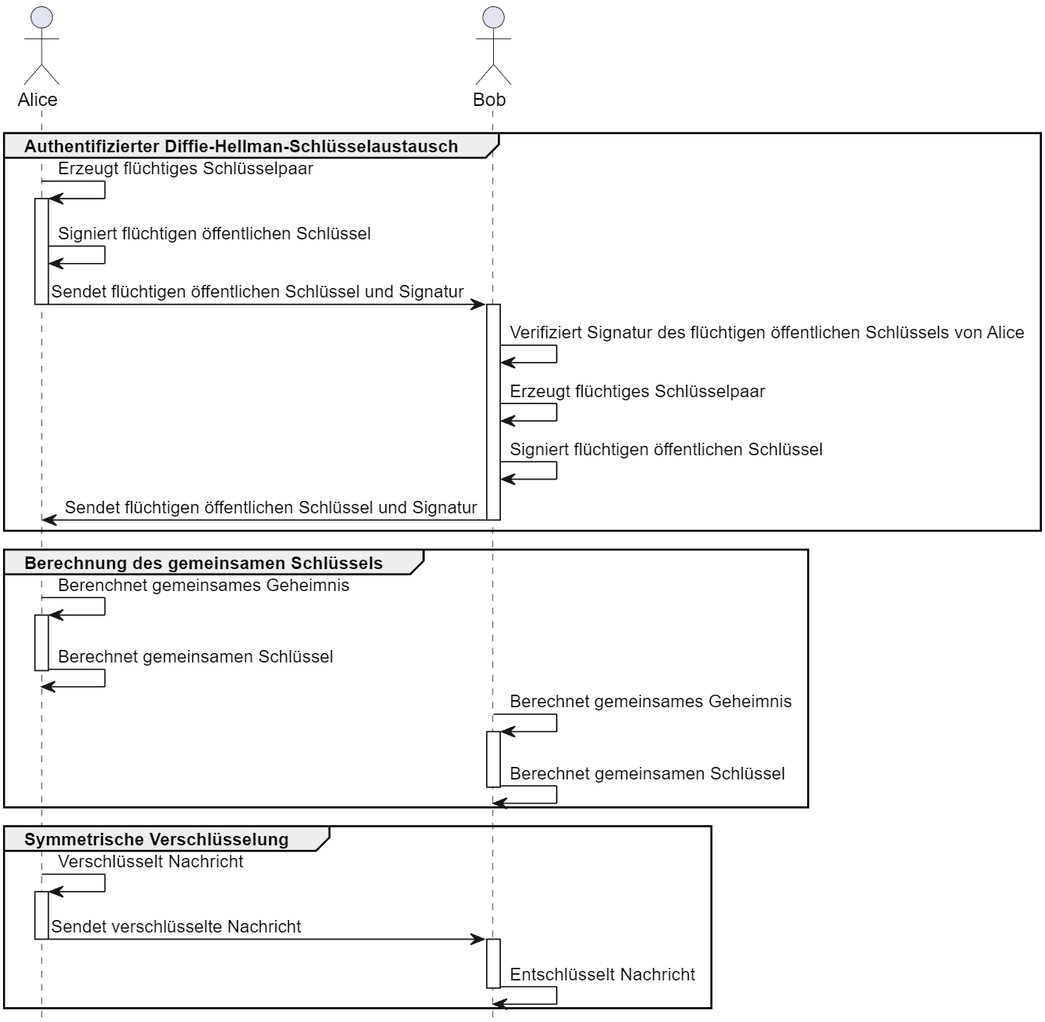
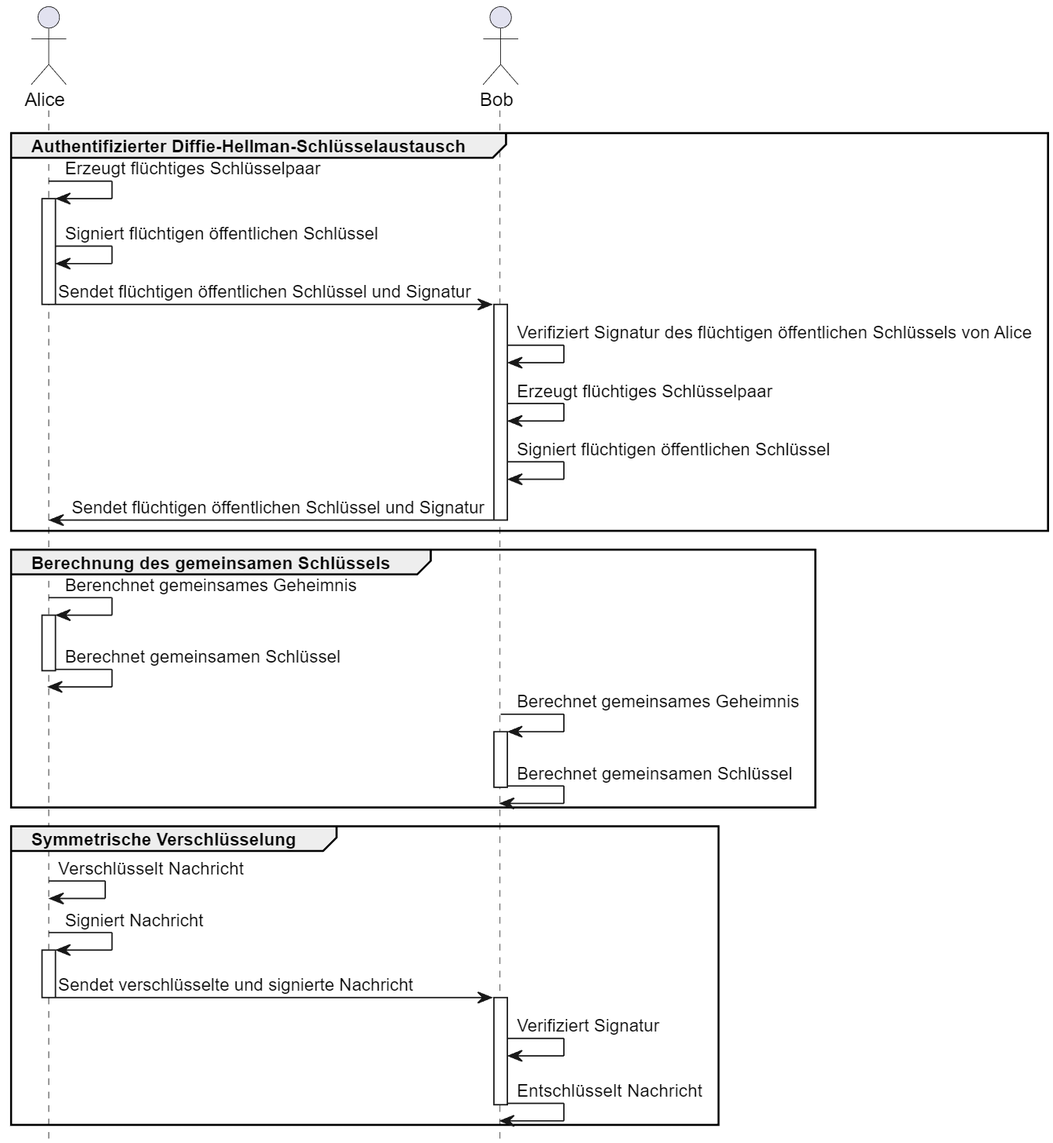
resolving all TODOs

Changed region(s): [[0.0, 0.0, 1.0, 1.0], [0.2464, 0.6144, 0.308, 0.6452], [0.308, 0.7988, 0.3388, 0.8295]]

diff --git a/chapter_4/sections/sicherheit.tex b/chapter_4/sections/sicherheit.tex
@@ -1,7 +1,6 @@
 \section{Sicherheit}
 \label{subsec:sicherheit}
 
-% #TODO: Checken, ob das nach der Umstrukturierung noch so passt
 Um die Kommunikation zwischen den Teilnehmern zu schützen, finden sowohl asymmetrische als auch symmetrische Verschlüsselung Anwendung. Die asymmetrische Verschlüsselung wird für die Authentifizierung und die symmetrische Verschlüsselung für die Ende-zu-Ende-Verschlüsselung der Nachrichten verwendet. 
 
 \subsection{Vertrauliche Kommunikation}
@@ -9,11 +8,6 @@ Um die Kommunikation zwischen den Teilnehmern zu schützen, finden sowohl asymme
 
 Die Kommunikation zwischen den Teilnehmern soll vertraulich sein. Das bedeutet, dass die Nachrichten nur von den Teilnehmern gelesen werden können, die an der Kommunikation beteiligt sind. Um dies gewährleisten zu können, wird eine Ende-zu-Ende-Verschlüsselung verwendet. Ende-zu-Ende-Verschlüsselung ist ein Konzept, das besagt, dass die Nachrichten vom Sender verschlüsselt und erst beim Empfänger wieder entschlüsselt werden \parencite[S. 233-260]{Wong_KryptoPraxis}. Die folgende Abbildung \ref{fig:ende_zu_ende} zeigt den Ablauf einer Ende-zu-Ende-Verschlüsselung.
 
-% Signatur mit EdDSA -> warum habe ich mich dafür entschieden?
-% Key Derivation Function
-% symmetrische Verschlüsselung mit AES (state of the art <- Quelle)
-% Perfect Forward Secrecy erwähnen
-% Ed25519 (EdDSA) -> warum habe ich mich dafür entschieden? Signatur
 
 \begin{figure}[H]
     \centering
@@ -35,18 +29,26 @@ Solch ein Schlüsselaustauschverfahren für sich genommen, hat den Nachteil, das
 
 Im Block \textit{Authentifizierter Diffie-Hellman Schlüsselaustausch} aus Abbildung \ref{fig:ende_zu_ende} erzeugt Alice ein neues X25519-Schlüsselpaar und signiert ihren öffentlichen Schlüssel unter Verwendung des privaten statischen Ed25519-Schlüssels. Dieser signierte öffentliche Schlüssel wird an Bob gesendet. Bob erzeugt ebenfalls ein X25519-Schlüsselpaar und signiert seinen öffentlichen Schlüssel mit seinem privaten statischen Ed25519-Schlüssel. Dieser signierte öffentliche Schlüssel wird an Alice gesendet. Alice und Bob können nun das gemeinsame Geheimnis berechnen (siehe \ref{fig:schluesselvereinbarung} \textit{\nameref{fig:schluesselvereinbarung}}).
 
+
 \subsubsection{Berechnung des gemeinsamen Schlüssels}
 
 Um aus diesem Geheimnis ein möglichst gleichverteiltes Geheimnis zu erzeugen, wird eine \textit{Schlüsselableitungsfunktion} (englisch: \textit{Key Derivation Function}) verwendet. Eine Schlüsselableitungsfunktion ist eine Funktion, die aus einem Eingabeschlüssel (hier das Geheimnis) einen Ausgabeschlüssel erzeugt. Dieser wird dann für die eigentliche Verschlüsselung der Nachricht verwendet. Laut Wong kann dafür eine einfache Hashfunktion (siehe \ref{subsec:vertraulichkeit_basics} \textit{\nameref{subsec:vertraulichkeit_basics}}) verwendet werden, wenn die Ausgabelänge für den Ausgabeschlüssel passend ist \Parencite[S. 194]{Wong_KryptoPraxis}. In diesem Fall wird die \textit{SHA-256} Hashfunktion verwendet, da diese eine Ausgabelänge von $256$ Bit hat \Parencite{rfc6234_SHA2}.
 
+Im Block \textit{Berechnung des gemeinsamen Schlüssels} aus Abbildung \ref{fig:ende_zu_ende} wird das Geheimnis mit der SHA-256 Hashfunktion gehasht und das Ergebnis als symmetrischer Schlüssel verwendet.
+
 
 \subsubsection{Symmetrische Verschlüsselung}
 
+Der am häufigsten verwendete Verschlüsselungsalgorithmus ist \textit{Advanced Encryption Standard (AES)}. Dieser Algorithmus ist ein symmetrischer Verschlüsselungsalgorithmus (siehe \ref{fig:symmetrische_verschluesselung} \textit{\nameref{fig:symmetrische_verschluesselung}}). Da die Länge des Schlüssels den Grad der Sicherheit bestimmt, wird die maximal mögliche Schlüssellänge von $256$ Bit verwendet \parencite[S. 76]{Wong_KryptoPraxis}. 
+Diese Schlüssellänge passt zu der Ausgabelänge der verwendeten Ableitungsfunktion SHA-256.
+
+Im Block \textit{Symmetrische Verschlüsselung} aus Abbildung \ref{fig:ende_zu_ende} wird die Nachricht von Alice mit dem symmetrischen Schlüssel verschlüsselt, signiert und an Bob gesendet. Bob kann die Nachricht mit dem symmetrischen Schlüssel entschlüsseln und die Signatur mit dem öffentlichen statischen Ed25519-Schlüssel von Alice verifizieren.
+
+Dieser Vorgang wird für jede Nachricht wiederholt. Der symmetrische Schlüssel wird für jede Nachricht neu berechnet. Dadurch wird die \textit{Perfect Forward Secrecy} (PFS) gewährleistet. Die PFS ist ein Konzept, welches besagt, dass die Kompromittierung des Schlüssels nicht die Kompromittierung der Kommunikation in der Vergangenheit ermöglichen darf \parencite[S. 921-922]{Krawczyk_PerfectForwardSecrecy}.
 
 
+\subsubsection{Statische Schlüssel}
 
+Die statischen Schlüssel werden verwendet, um die Teilnehmer zu authentifizieren (Berechnung und Verifikation der Signaturen). Diese Schlüssel werden einmalig bei der Registrierung (siehe \ref{subsec:identifikation_von_teilnehmern} \textit{\nameref{subsec:identifikation_von_teilnehmern}}) eines Teilnehmers erzeugt. Der private Schlüssel wird lokal auf dem Gerät des Teilnehmers gespeichert. Für den öffentlichen Schlüssel muss ein Weg gefunden werden, diesen allen anderen Teilnehmern öffentlich zugänglich und eindeutig zuordenbar zu machen. Hierfür wird die Blockchain verwendet. 
 
-%\noindent Beim Aufbau einer Verbindung wird ein Diffie-Hellman-Schlüsselaustausch durchgeführt. Dieser Schlüsselaustausch wird verwendet, um einen symmetrischen Schlüssel für die Ende-zu-Ende-Verschlüsselung zu erzeugen. Der Diffie-Hellman-Schlüsselaustausch wird in Abbildung \ref{fig:ende_zu_ende} dargestellt. 
-
-%Zu Beginn erzeugt Alice ein flüchtiges Schlüsselpaar. Flüchtige Schlüssel sind Schlüssel, die nur für eine Verbindung verwendet werden. Nach der Verwendung werden sie verworfen \parencite{NIST_ephemeralKey}. Diesen Schlüssel signiert sie mit ihrem privaten statischen Schlüssel und sendet ihn an Bob. Bob kann die Signatur mit dem öffentlichen statischen Schlüssel von Alice verifizieren, da dieser bei Alice´ Registrierung in die Blockchain geschrieben wurde und mit Hilfe einer Funktion aus der Blockchain gelesen werden kann. Bob erzeugt nun ebenfalls ein flüchtiges Schlüsselpaar und signiert den flüchtigen öffentlichen Schlüssel mit seinem privaten statischen Schlüssel. Diesen signierten Schlüssel sendet er an Alice. Auch Alice kann nun die Signatur durch das Hinterlegen des öffentlichen statischen Schlüssels von Bob in der Blockchain prüfen. Der nächste Schritt ist die Berechnung des gemeinsamen Geheimnis. Dazu wird der flüchtige öffentliche Schlüssel des anderen Teilnehmers mit dem eigenen privaten flüchtigen Schlüssel multipliziert (?). Das Ergebnis ist das gemeinsame Geheimnis. Dieses wird nun mit einer \textit{Schlüsselableitungsfunktion} (englisch: \textit{Key Derivation Function}) in einen symmetrischen Schlüssel umgewandelt, mit dem die Nachrichten verschlüsselt werden. Alice kann nun eine, mit dem symmetrischen Schlüssel verschlüsselte, Nachricht an Bob senden und Bob ist in der Lage diese Nachricht mit dem symmetrischen Schlüssel zu entschlüsseln. 
 

diff --git a/chapter_4/sections/identifikation.tex b/chapter_4/sections/identifikation.tex
@@ -4,21 +4,19 @@
 Da es in Peer-to-Peer-Netzwerken keinen zentralen Server gibt, der unter anderem zur Auffindung und Identifikation anderer Teilnehmer verwendet werden kann, müssen die Teilnehmer auf andere Weise identifiziert werden. Durch die Entscheidung, das Kademlia Protokoll zu implementieren, wird die ID des Teilnehmers als Schlüssel für die Speicherung der Teilnehmerinformationen, wie IP-Adresse und Port, verwendet.
 
 Aus der Spezifikation von Kademlia geht hervor, dass die ID einer Node, welche auch als \textit{Kademlia-ID} bezeichnet wird, 160 Bit lang sein muss und aus einer zufälligen Kennung bestehen soll \parencite[S. 2]{Maymounkov_Kademlia}. Für das hier entwickelte Protokoll wird der Benutzername des Teilnehmers als ID verwendet. Da Kademlia eine ID mit einer Länge von 160 Bit erwartet, muss der Benutzername auf diese Länge gebracht werden. Dafür wird eine Zeichenbegrenzung von 20 Zeichen festgelegt, was bei einer UTF-8 Codierung einer Bitlänge von 160 Bit entspricht \parencite{rfc3629_utf-8}. Falls der Benutzername kürzer als 20 Zeichen ist, wird er mit Nullen aufgefüllt.
-Der Benutzername muss, wie aus den funktionalen Anforderungen (siehe \ref{subsec:registrierung}) zu entnehmen ist, eindeutig sein und kann vom Benutzer bei der Registrierung frei gewählt werden. 
-Durch die Beschränkung der ID auf 20 Zeichen wird die Anzahl der Teilnehmer zwar begrenzt, jedoch ist die Anzahl der möglichen Teilnehmer immer noch sehr groß. Es können in der Theorie $2^{160}$ Teilnehmer am Netzwerk teilnehmen, wobei nicht jedes Zeichen in UTF-8 sinnvoll für die Verwendung in einem Benutzername ist. Somit ist die Anzahl der möglichen Teilnehmer in der Praxis geringer.
+Der Benutzername muss, wie aus den funktionalen Anforderungen (siehe \ref{subsec:registrierung}) zu entnehmen ist, eindeutig sein und kann vom Benutzer bei der Registrierung frei gewählt werden. Außerdem wird bei der Registrierung ein privater und ein öffentlicher Schlüssel erzeugt. Der öffentliche Schlüssel wird zusammen mit dem Benutzernamen in der Blockchain gespeichert. Der private Schlüssel wird lokal auf dem Gerät des Teilnehmers gespeichert. Durch die Beschränkung der ID auf 20 Zeichen wird die Anzahl der Teilnehmer zwar begrenzt, jedoch ist die Anzahl der möglichen Teilnehmer immer noch sehr groß. Es können in der Theorie $2^{160}$ Teilnehmer am Netzwerk teilnehmen, wobei nicht jedes Zeichen in UTF-8 sinnvoll für die Verwendung in einem Benutzername ist. Somit ist die Anzahl der möglichen Teilnehmer in der Praxis geringer.
 
 Diese Anzahl ist so groß, dass sie in der Praxis nicht erreicht werden sollte und somit die Beschränkung der ID keine Auswirkungen auf die Funktionalität des Protokolls haben sollte.
 In der Node werden dann Schlüssel-Wert-Paare gespeichert, wobei der Schlüssel die ID des Teilnehmers ist und der Wert die IP-Adresse und der Port. Es wird festgelegt, dass immer Port $49152$ verwendet wird, da sich dieser Port im Bereich der dynamischen Ports befindet und somit nicht für andere Anwendungen reserviert ist \parencite[S. 20]{rfc6335_IANA_Ports}. 
 
 Wenn ein Teilnehmer eine Nachricht an einen anderen Teilnehmer senden möchte, muss er dessen IP-Adresse kennen. Um an diese Information zu gelangen, muss zuerst die ID des Teilnehmers in der Blockchain gesucht werden und anschließend eine Peer-Discovery durchgeführt werden, um die IP-Adresse des Teilnehmers zu erhalten. Eine Peer-Discovery läuft wie folgt ab:
- % #TODO: KORRIGIEREN! NODE_NOT_FOUND gibt es nicht!
- % #TODO: Doch noch eine Abbildung einfügen?
+
 \begin{enumerate}
-    \item Der Teilnehmer, der die Nachricht senden möchte, sendet eine \textit{FIND\_NODE}-Nachricht an den Teilnehmer, dessen IP-Adresse er sucht. In dieser Nachricht ist die ID des Teilnehmers enthalten, dessen IP-Adresse gesucht wird.
-    \item Der Teilnehmer, der die Nachricht erhalten hat, sucht in seiner Routing-Tabelle nach dem Teilnehmer, dessen ID in der Nachricht enthalten ist. Falls der Teilnehmer gefunden wird, wird eine Nachricht an den Teilnehmer gesendet, der die \textit{FIND\_NODE}-Nachricht gesendet hat. In dieser Nachricht ist die IP-Adresse des Teilnehmers enthalten.
-    \item Falls der Teilnehmer nicht in der Routing-Tabelle gefunden wird, wird die \textit{FIND\_\\NODE}-Nachricht an den Teilnehmer weitergeleitet, der der ID des gesuchten Teilnehmers am nächsten ist. Dieser Vorgang wird solange wiederholt, bis der Teilnehmer gefunden wird.
-    \item Falls der Teilnehmer nicht gefunden wird, wird eine \textit{NODE\_NOT\_FOUND}-\\Nachricht an den Teilnehmer gesendet, der die \textit{FIND\_NODE}-Nachricht gesendet hat.
-    \item Der Teilnehmer, der die Nachricht mit der IP-Adresse seines Ziels erhalten hat, speichert diese in seiner Routing-Tabelle ab.
+    \item Alice hasht den Benutzernamen von Bob mit der SHA-1 Hashfunktion und erhält damit die Kademlia-ID von Bob.
+    \item Alice sendet eine \textit{FIND\_NODE}-Nachricht an den Knoten in ihrer Routing-Tabelle, der der Kademlia-ID von Bob am nächsten ist. 
+    \item Der Knoten sucht in seiner Routing-Tabelle nach der Kademlia-ID von Bob. Falls er den Knoten findet, antwortet er mit den gefundenen Informationen in Form eines Tripletts aus Kademlia-ID, IP-Adresse und Port. Falls der Knoten den Knoten nicht findet, antwortet er mit mehreren Triplets, die dem Knoten mit der Kademlia-ID von Bob am nächsten sind.
+    \item Alice erhält die Antwort und sucht in der Antwort nach der Kademlia-ID von Bob. Falls sie gefunden wird, speichert Alice die IP-Adresse und den Port von Bob in ihrer Routing-Tabelle ab. Falls sie nicht gefunden wird, wiederholt Alice Schritt 2 solange, bis sie keine Antworten mehr erhält, die IDs beinhalten, die der Kademlia-ID von Bob näher sind als die ID des Knotens, der die \textit{FIND\_NODE}-Nachricht erhalten hat.
 \end{enumerate}
+
 
 \noindent Um das Netzwerk immer aktuell zu halten, wird in regelmäßigen Abständen ein \textit{PING} an alle Teilnehmer gesendet, die in den Routing-Tabellen der Nodes gespeichert sind. Falls ein Teilnehmer nicht antwortet, wird er aus der Routing-Tabelle entfernt.

diff --git a/chapter_4/sections/verbindungsmanagement.tex b/chapter_4/sections/verbindungsmanagement.tex
@@ -79,8 +79,10 @@ Mit dem Abschluss der Konnektivitätsprüfungen beginnt die dritte und letzte Ph
 
 Wenn die am besten geeignete Verbindungsadresse eine lokale Adresse ist, wird eine direkte Verbindung zwischen den Geräten aufgebaut. Wenn die am besten geeignete Verbindungsadresse eine reflexive Adresse ist, wird eine direkte Verbindung zwischen den Geräten aufgebaut, indem die reflexive Adresse als Zieladresse verwendet wird. Wenn wiederum die am besten geeignete Verbindungsadresse eine Relay-Adresse ist, wird eine Verbindung über den Relay-Server aufgebaut, indem die Relay-Adresse als Zieladresse verwendet wird. Der Nachrichtenaustausch erfolgt über die ausgewählte Verbindungsadresse. Wobei hier mit \textit{Verbindung aufbauen} gemeint ist, dass die Nachrichten über die Verbindungsadresse gesendet und empfangen werden können. Aus Sicht der Transportschicht wird durch die Verwendung von UDP keine Verbindung aufgebaut, denn UDP ist ein verbindungsloses Protokoll. Das bedeutet, dass keine Verbindung aufgebaut werden muss, um die Nachrichten zu senden und zu empfangen. Die Nachrichten werden über die Verbindungsadresse gesendet und empfangen. Aus Applikationssicht wird jedoch eine Verbindung aufgebaut, da die Nachrichten zwischen den Teilnehmern ausgetauscht werden können.
 Ein Nachteil bei der Verwendung von UDP ist, dass die Nachrichten nicht zuverlässig zugestellt werden. Das bedeutet, dass Nachrichten verloren gehen können, ohne dass der Absender oder Empfänger davon erfährt. Das Transportprotokoll TCP (Transmission Control Protocol) hingegen ist zuverlässig, da es eine Verbindung aufbaut und sicherstellt, dass die Nachrichten erfolgreich zugestellt werden \parencite[S. 36]{rfc9293_TCP}. Im Falle von Paketverlusten ist auf der gleichen Seite definiert, dass TCP in der Lage ist, die verlorenen Pakete zu erkennen und erneut zu senden.
-Doch eine mögliche Verwendung von TCP hat auch Nachteile: ein Nachteil ist, dass es eine Verbindung aufbauen muss, bevor die Nachrichten gesendet werden können. Dies kann zu einer höheren Latenz führen. Ein weiterer Nachteil ist, dass die Verbindung aufrechterhalten werden muss, um die Nachrichten zu senden und zu empfangen. Dies führt zu einem höheren Ressourcenverbrauch, da die Verbindung aufrechterhalten werden muss, auch wenn keine Nachrichten gesendet werden. Auch bei NATs hat TCP Nachteile. NATs schließen die Verbindungen nach einer gewissen Zeit, wenn keine Daten übertragen werden. Dies kann dazu führen, dass die Verbindung geschlossen werden, bevor die Nachrichten gesendet werden können. Bei Instant Messaging zählt die Geschwindigkeit, mit der die Nachrichten gesendet und empfangen werden mehr, als die Zuverlässigkeit der Nachrichten.
-Daher ist es besser, die Nachrichten schnell zu senden und zu empfangen, auch wenn dies bedeutet, dass die Nachrichten eventuell nicht zuverlässig zugestellt werden. Und auch in Verbindung mit NATs stellt sich UDP als die bessere Wahl heraus. Aus diesen Gründen wurde UDP als Transportprotokoll für die Nachrichtenübertragung gewählt.
+
+Doch eine mögliche Verwendung von TCP hat auch Nachteile: ein Nachteil ist, dass es eine Verbindung aufbauen muss, bevor die Nachrichten gesendet werden können. Dies kann zu einer höheren Latenz führen. Ein weiterer Nachteil ist, dass die Verbindung aufrechterhalten werden muss, um die Nachrichten zu senden und zu empfangen. Dies führt zu einem höheren Ressourcenverbrauch, da die Verbindung aufrechterhalten werden muss, auch wenn keine Nachrichten gesendet werden. Auch bei NATs hat TCP Nachteile. NATs schließen die Verbindungen nach einer gewissen Zeit, wenn keine Daten übertragen werden. Dies kann dazu führen, dass die Verbindung geschlossen werden, bevor die Nachrichten gesendet werden können. 
+Ein überzeugendes Argument für die Verwendung von UDP liegt in seiner Effizienz durch den geringeren Overhead im Vergleich zu TCP. Dank des schlankeren Headers werden weniger Daten übertragen, was besonders in Instant Messaging-Szenarien, in denen kleine Nachrichten häufig versendet werden, zu einer effizienteren Nutzung der Netzwerkressourcen und zu schnelleren Übertragungen führt. UDP bietet zudem den Vorteil der Unabhängigkeit in Bezug auf die Reihenfolge der übermittelten Pakete. Im Gegensatz zu TCP, das die korrekte Reihenfolge sicherstellt, überlässt UDP diese Aufgabe der Anwendungsschicht. In Instant Messaging-Anwendungen, in denen die Reihenfolge der Nachrichten möglicherweise weniger kritisch ist, ermöglicht dies eine flexiblere und potenziell schnellere Übertragung von Nachrichten. Die geringere Verbindungsetablierungszeit von UDP ist ein weiterer Pluspunkt. Da UDP ein verbindungsloses Protokoll ist, entfällt der zeitliche Aufwand für das Auf- und Abbauen von Verbindungen. Dies ist besonders vorteilhaft in Umgebungen mit häufigen Verbindungswechseln, wie sie bei Instant-Messaging mittels Peer-to-Peer auftreten können. Die Minimierung der Latenzzeit trägt dazu bei, Nachrichten schneller bereitzustellen \parencites{rfc768_UDP}{rfc9293_TCP}. 
+Aus diesen Gründen wurde UDP als Transportprotokoll für die Nachrichtenübertragung gewählt.
 
 
 \subsection{Verbindungsabbau}

diff --git a/chapter_4/sections/protokollgrundlagen.tex b/chapter_4/sections/protokollgrundlagen.tex
@@ -45,25 +45,11 @@ Funktionen, wie diese Suche, werden durch die vier Nachrichten \textit{FIND\_NOD
 
 \noindent Da bei einem Instant-Messaging-Protokoll häufig Teilnehmer das Netzwerk verlassen und neue Teilnehmer dem Netzwerk beitreten, ist es wichtig, dass das Protokoll mit hoher Fluktuation umgehen kann. Diese Fluktuation von Nodes wird als Churn (engl. Abwanderung) bezeichnet. In einer Studie von Medrano-Chávez et al. \parencite{MedranoChavez_ChordKademliaHighChurnScenarios}, welche im hybriden Journal \textit{Peer-to-Peer Networking and Applications} veröffentlicht wurde, wurde die Leistung von Chord und Kademlia in Bezug auf Netzwerkfluktuation untersucht. Die Ergebnisse zeigen, dass Kademlia bei hoher Fluktuation besser abschneidet als Chord. Aus diesem Grund wird Kademlia in diesem Protokoll als Grundlage für das Auffinden von Teilnehmern und das Routing verwendet.
 
-% #TODO: Warum Kademlia und was die Sicherheitsaspekte angeht, erst in Architektur aufgreifen.
-    % Signaling Server könnte auch mit Anfragen geflutet werden -> der Sever könnte bei jedem checken, ob es sich um einen validen Teilnehmer handelt, was aber sehr aufwändig wäre
-    % wenn Kademlia mit Anfragen geflutet wird, könnte es zu einem Denial of Service kommen, da die Knoten nicht mehr erreichbar sind -> habe aber ja mit dem Signaling Server noch eine weitere Instanz, die die Anfragen entgegen nimmt und weiterleitet
 
-Durch die Entscheidung für die Implementierung von Kademlia als Grundlage für das Auffinden von Teilnehmern und das Routing, wird die Sicherheit des Protokolls beeinflusst. Da Kademlia ein dezentralisiertes Protokoll ist, ist es anfällig für den in Abschnitt \ref{subsubsec:sybil_attack} (\textit{\nameref{subsubsec:sybil_attack}}) beschriebenen Sybil-Angriff. Um diesen Angriff zu verhindern bzw. zu erschweren, wird in dieser Arbeit die Teilnahme am Netzwerk erst durch eine vorherige Registrierung ermöglicht. Die Registrierung wird durch die Blockchain-Technologie realisiert und ist mit Kosten verbunden, die ein Angreifer aufbringen muss, um am Netzwerk teilzunehmen. Da bei einem Sybil-Angriff der Angreifer mehrere Identitäten verwendet, um das Netzwerk zu übernehmen, muss er für jede Identität die Kosten aufbringen. Dadurch wird der Angriff erschwert, da der Angreifer mehr Ressourcen benötigt, um das Netzwerk zu übernehmen.
+Durch die Entscheidung für die Implementierung von Kademlia als Grundlage für das Auffinden von Teilnehmern und das Routing, wird die Sicherheit des Protokolls beeinflusst. Da Kademlia ein dezentralisiertes Protokoll ist, ist es anfällig für den in Abschnitt \ref{subsubsec:sybil_attack_p2p} (\textit{\nameref{subsubsec:sybil_attack_p2p}}) beschriebenen Sybil-Angriff. Eine Möglichkeit, diesen Angriff zu erschweren, wird in Kapitel \ref{chap:evaluation} \textit{\nameref{chap:evaluation}} diskutiert.
 
+Sollte der Aufbau einer Direktverbindung mittels Kademlia nicht möglich sein, wird das Interactive Connectivity Establishment (ICE) Protokoll verwendet, um eine Verbindung zwischen zwei Teilnehmern herzustellen. ICE ist ein Framework, das mehrere Techniken kombiniert, um eine Verbindung zwischen zwei Endpunkten herzustellen, die sich hinter NATs befinden. Genaue Details zur Implementierung von ICE folgt in Kapitel \ref{subsec:verbindungsmanagement} \textit{\nameref{subsec:verbindungsmanagement}}.
 
-
-
-
-
-
-\begin{itemize}
-    \item Kademlia vs. Angriffe
-    \item Angriffe gegen ICE gucken und erklären
-\end{itemize}
-
-\noindent Sollte der Aufbau einer Direktverbindung mittels Kademlia nicht möglich sein, wird das Interactive Connectivity Establishment (ICE) Protokoll verwendet, um eine Verbindung zwischen zwei Teilnehmern herzustellen. ICE ist ein Framework, das mehrere Techniken kombiniert, um eine Verbindung zwischen zwei Endpunkten herzustellen, die sich hinter NATs befinden. Genaue Details zur Implementierung von ICE folgt in Kapitel \ref{subsec:verbindungsmanagement} \textit{\nameref{subsec:verbindungsmanagement}}.
-
-\noindent Um die Problematik mit NATs zu lösen, wird das ICE-Protokoll verwendet. ICE ist ein Framework, das mehrere Techniken kombiniert, um eine Verbindung zwischen zwei Endpunkten herzustellen, die sich hinter NATs befinden. Genaue Details zur Implementierung von ICE folgt in Kapitel \ref{subsec:verbindungsmanagement} \textit{\nameref{subsec:verbindungsmanagement}}.
+Um die Problematik mit NATs zu lösen, wird das ICE-Protokoll verwendet. ICE ist ein Framework, das mehrere Techniken kombiniert, um eine Verbindung zwischen zwei Endpunkten herzustellen, die sich hinter NATs befinden. Genaue Details zur Implementierung von ICE folgt in Kapitel \ref{subsec:verbindungsmanagement} \textit{\nameref{subsec:verbindungsmanagement}}.
 
 

diff --git a/chapter_4/sections/nachrichtenformat.tex b/chapter_4/sections/nachrichtenformat.tex
@@ -1,37 +1,17 @@
 \section{Nachrichtenformat}
 \label{sec:nachrichtenformat}
 
-% #TODO: Warum ist das so aufgebaut? Woran habe ich mich orientiert?
-% #TODO: Pre-Key Message: In certain situations, such as during initial communication setup or key changes, additional data called pre-key messages might be included. These messages contain necessary information for establishing or updating encryption keys. <- brauche ich das?
 
 Jedes Instant-Messaging-Protokoll benötigt die Definition eines Nachrichtenformats, das die Struktur der Nachrichten festlegt, die zwischen den Teilnehmern ausgetauscht werden. Im Folgenden wird das Nachrichtenformat für das Instant-Messaging-Protokoll beschrieben.
-
-% #TODO: Kopf und Inhalt zusammenführen
-% #TODO: Endianness erwähnen    
-\subsection{Nachrichtenkopf}
-
-Nachdem eine Verbindung zwischen zwei Teilnehmern hergestellt werden konnte, kann die Nachricht vom Sender an den Empfänger gesendet werden. Die Nachricht wird in binär serialisierter Form übertragen. 
-
-
-Der Nachrichtenkopf enthält die folgenden Informationen:
+Nachdem eine Verbindung zwischen zwei Teilnehmern hergestellt werden konnte, kann die Nachricht vom Sender an den Empfänger gesendet werden. Die Nachricht wird in binär serialisierter Form übertragen und enthält die folgenden Informationen:
 
 \begin{itemize}
-    \item Quell-IP-Adresse und Quell-Port
-    \item Ziel-IP-Adresse und Ziel-Port
-    \item Timestamp (auch für Reihenfolge verwenden)
+    \item Benutzername des Senders
+    \item Benutzername des Empfängers
+    \item Timestamp
     \item Signatur
-\end{itemize}
-
-\noindent Die Quell-IP-Adresse und der Quell-Port stammen vom Sender, die Ziel-IP-Adresse und der Ziel-Port enthalten die IP-Adresse und den Port des Empfängers. Die Prüfsumme wird aus dem Nachrichteninhalt berechnet und dient der Integritätsprüfung. Der Timestamp enthält die aktuelle Zeit, zu der die Nachricht gesendet wird. Jede Nachricht wird aus Sicherheitsgründen mit dem statischen privaten Schlüssel des Senders signiert und kann somit vom Empfänger verifiziert werden. Die Sequenznummer spielt bei der Verwendung von UDP eine wichtige Rolle, da UDP keine Garantie für die Reihenfolge der Nachrichten bietet. Somit kann der Empfänger die Nachrichten anhand der Sequenznummer in die richtige Reihenfolge bringen.
-
-\subsection{Nachrichteninhalt}
-
-Der Nachrichteninhalt enthält die folgenden Informationen:
-
-\begin{itemize}
-    \item Nachrichtentyp
     \item Nachrichtenlänge
     \item Nachrichteninhalt
 \end{itemize}
 
-\noindent Der Nachrichtentyp gibt an, um welche Art von Nachricht es sich handelt. Die Nachrichtenlänge gibt die Länge des Nachrichteninhalts an. Der Nachrichteninhalt enthält die eigentliche Nachricht, die vom Sender an den Empfänger gesendet wird. Ab Byte so und so ist der verschlüsselte Nachrichteninhalt. Das kann fix so geasgt werde, dann die Metadaten davor eine fixe Länge haben.
+\noindent Bei der Erstellung des Nachrichtenformats wurde sich an \cite[S. 9]{rfc2779_IMPP} orientiert. Die Benutzernamen erlauben die Zuordnung der Nachricht. Der Timestamp enthält die aktuelle Zeit, zu der die Nachricht gesendet wird und wird für die richtige Sortierung der Nachrichten verwendet. Die Signatur dient der Authentifizierung des Senders (siehe \ref{subsec:vertrauliche_kommunikation} \textit{\nameref{subsec:vertrauliche_kommunikation}}). Aus Sicherheitsgründen wird jede Nachricht signiert. Die Nachrichtenlänge gibt die Länge des Nachrichteninhalts an und der Nachrichteninhalt enthält die eigentliche Nachricht, die vom Sender an den Empfänger gesendet werden soll.

diff --git a/chapter_5/evaluation.tex b/chapter_5/evaluation.tex
@@ -1,4 +1,9 @@
 \chapter{Evaluation}
+\label{chap:evaluation}
+
+% Signaling Server könnte auch mit Anfragen geflutet werden -> der Sever könnte bei jedem checken, ob es sich um einen validen Teilnehmer handelt, was aber sehr aufwändig wäre
+
+% wenn Kademlia mit Anfragen geflutet wird, könnte es zu einem Denial of Service kommen, da die Knoten nichtmehr erreichbar sind -> habe aber ja mit dem Signaling Server noch eine weitere Instanz, die die Anfragen entgegen nimmt und weiterleitet
 
 Abgleich des entwickelten Protokolls mit den in der Anforderungsanalyse identifizierten funktionalen und
 nicht-funktionalen Anforderungen. Welche konnte ich erfüllen und welche nicht? Falls nicht, warum
@@ -9,4 +14,9 @@ konnte ich diese Anforderung gar nicht oder nur teilweise erfüllen?
     \item ICE hat das Manko, dass nicht definiert ist, wie das Signaling abläuft; es wird einfach vorausgesetzt, dass das funktioniert\dots
     \item Angriffe auf Kademlia und Blockchain nochmal überprüfen und Risiken aufzeigen, die ich nicht verhindert habe/konnte
     \item Kosten für Registrierung von Benutzern könnte abschreckend sein, da es viele Alternativen gibt, die kostenlos sind (und mehr Features bieten); dies bietet allerdings Schutz vor Sybil-Angriffen (habe ich auch so in der Arbeit geschrieben)
+    \item Neuaushandlung des Schlüssels für jede Nachricht könnte zu viel sein
 \end{itemize}
+
+
+Um diesen Angriff zu erschweren, wird in dieser Arbeit die Teilnahme am Netzwerk erst durch eine vorherige Registrierung ermöglicht. Die Registrierung wird durch die Blockchain-Technologie realisiert und ist mit Kosten verbunden, die ein Angreifer aufbringen muss, um am Netzwerk teilzunehmen. Da bei einem Sybil-Angriff der Angreifer mehrere Identitäten verwendet, um das Netzwerk zu übernehmen, muss er für jede Identität die Kosten aufbringen. Dadurch wird der Angriff erschwert, da der Angreifer mehr Ressourcen benötigt, um das Netzwerk zu übernehmen.
+

diff --git a/chapter_2/sections/peer_to_peer.tex b/chapter_2/sections/peer_to_peer.tex
@@ -1,13 +1,6 @@
 \section{Peer-to-Peer-Technologie}
 \label{subsec:peer_to_peer_technologie}
-% #TODO: Funktion des Kademlia Protokolls nennen und erklären (vielleicht in Grundlagen)
-% Im Kademlia-Protokoll sind vier Funktionen definiert, die für die Suche nach
-% Knoten und Werten verwendet werden. Diese Funktionen sind \texttt{FIND\_NODE},
-% \texttt{FIND\_VALUE}, \texttt{PING} und \texttt{STORE}. Die Funktionen
-% \texttt{FIND\_NODE} und \texttt{FIND\_VALUE} werden verwendet, um nach Knoten
-% oder Werten zu suchen. Die Funktion \texttt{PING} wird verwendet, um die
-% Erreichbarkeit eines Knotens zu überprüfen. Die Funktion \texttt{STORE} wird
-% verwendet, um einen Wert in einem Knoten zu speichern.
+
 
 Peer-to-Peer-Technologien können in zwei Kategorien unterteilt werden: Peer-to-Peer-Anwendungen und Peer-to-Peer-Infrastrukturen. Die Kategorie der Peer-to-Peer-Anwen-\\dungen umfasst den Dienst der Inhaltsverteilung, bei dem die Teilnehmer Inhalte wie Musik, Videos oder andere Dateien direkt untereinander austauschen \Parencite[730-731]{Khatibi_StructuredUnstructuredP2P}. 
 

diff --git a/chapter_2/sections/blockchain.tex b/chapter_2/sections/blockchain.tex
@@ -14,7 +14,7 @@ Christoph Meinel und Tatiana Gayvoronskaya beschreiben die Blockchain-Technologi
 \end{quote}
 
 \noindent Daraus ergibt sich die Frage, was Blockchain eigentlich ist und wie die bereits vorhandenen technologischen Ansätze miteinander vereint werden. Diese Fragen werden in diesem Kapitel beantwortet. Zunächst wird der Begriff Blockchain definiert und anschließend die Funktionsweise erläutert. Daraufhin werden die Konsensmechanismen\textit{Proof-of-Work} und \textit{Proof-of-Stake} vorgestellt. Abschließend wird auf die Sicherheit von Blockchain eingegangen und Angriffe auf Blockchain werden erläutert.
-% #TODO: Distributed Ledger als Vorgänger zu Blockchain erwähnen?
+
 
 \subsection{Definition von Blockchain}
 \label{subsec:blockchain_definition}

diff --git a/thesis.tex b/thesis.tex
@@ -171,12 +171,12 @@
 
 
     %%%%%%%%%%%%%%%%%%%%%%%%%%%%%%%%%%%% BEGIN: Numbered Chapters %%%%%%%%%%%%%%%%%%%%%%%%%%%%%%%%%%%
-    %\input{chapter_1/einleitung.tex}
+    \input{chapter_1/einleitung.tex}
     \input{chapter_2/grundlagen.tex}
-    %\input{chapter_3/anforderungen.tex}
+    \input{chapter_3/anforderungen.tex}
     \input{chapter_4/entwurf_und_architektur.tex}
-    %\input{chapter_5/evaluation.tex} % Diskussion?
-    %\input{chapter_7/schlussfolgerung_ausblick.tex}
+    \input{chapter_5/evaluation.tex} % Diskussion?
+    \input{chapter_7/schlussfolgerung_ausblick.tex}
     %%%%%%%%%%%%%%%%%%%%%%%%%%%%%%%%%%%%% END: Numbered Chapters %%%%%%%%%%%%%%%%%%%%%%%%%%%%%%%%%%%%
 
 

diff --git a/chapter_4/entwurf_und_architektur.tex b/chapter_4/entwurf_und_architektur.tex
@@ -1,7 +1,6 @@
 \chapter{Architektur des Protokolls}
 \label{chap:entwurf_und_architektur}
 
-% #TODO: Vielleicht noch den Sicherheitsaspekt der Blockchain erklären, dass die IDs nicht gefälscht werden können, da sie in der Blockchain gespeichert sind und somit nicht manipuliert werden können; wenn die Nachrichten mit dem public key, der in der Blockchain liegt, signiert werden, bietet auch das eine Sicherheit, dass die Nachrichten nicht gefälscht werden können
 
 % #TODO: neu schreiben, wenn der komplette Inhalt des Kapitels feststeht 
 
